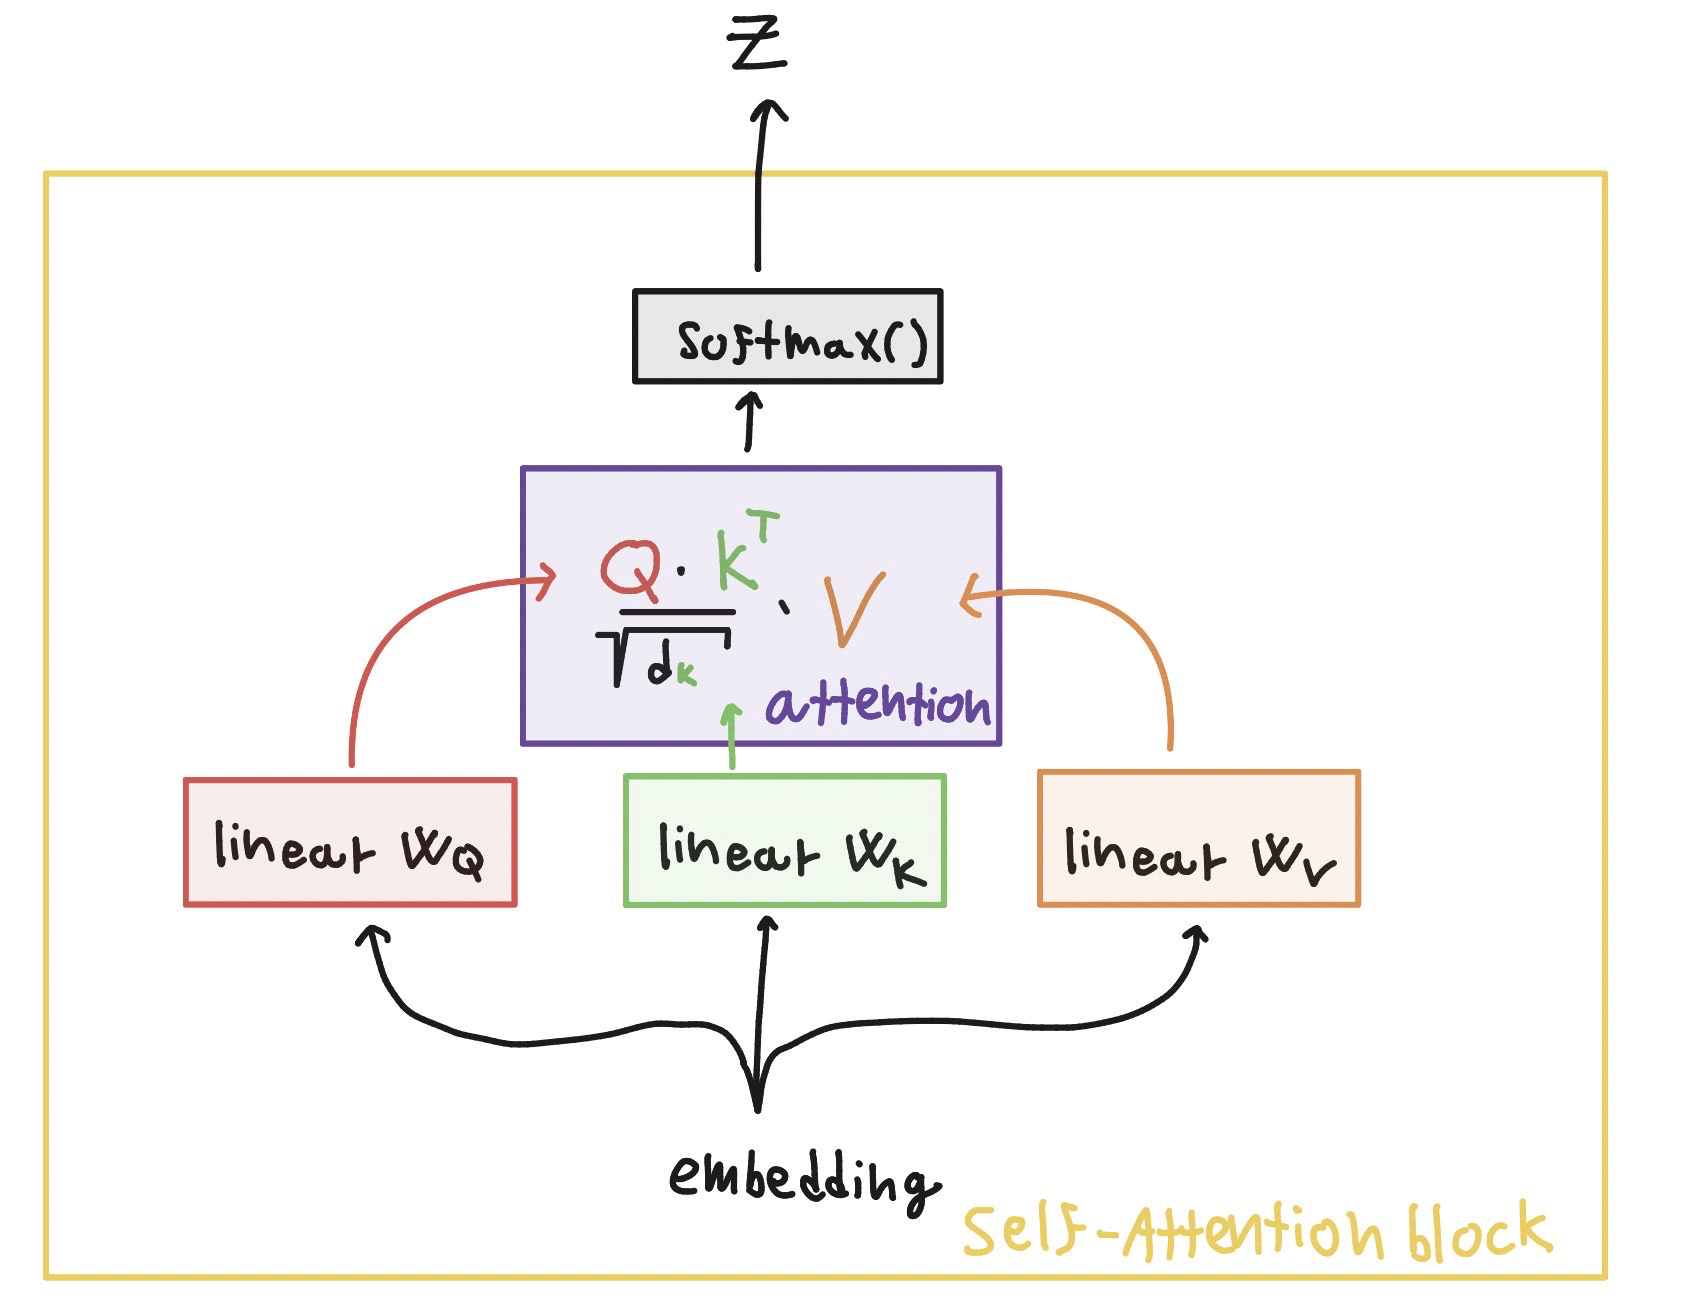
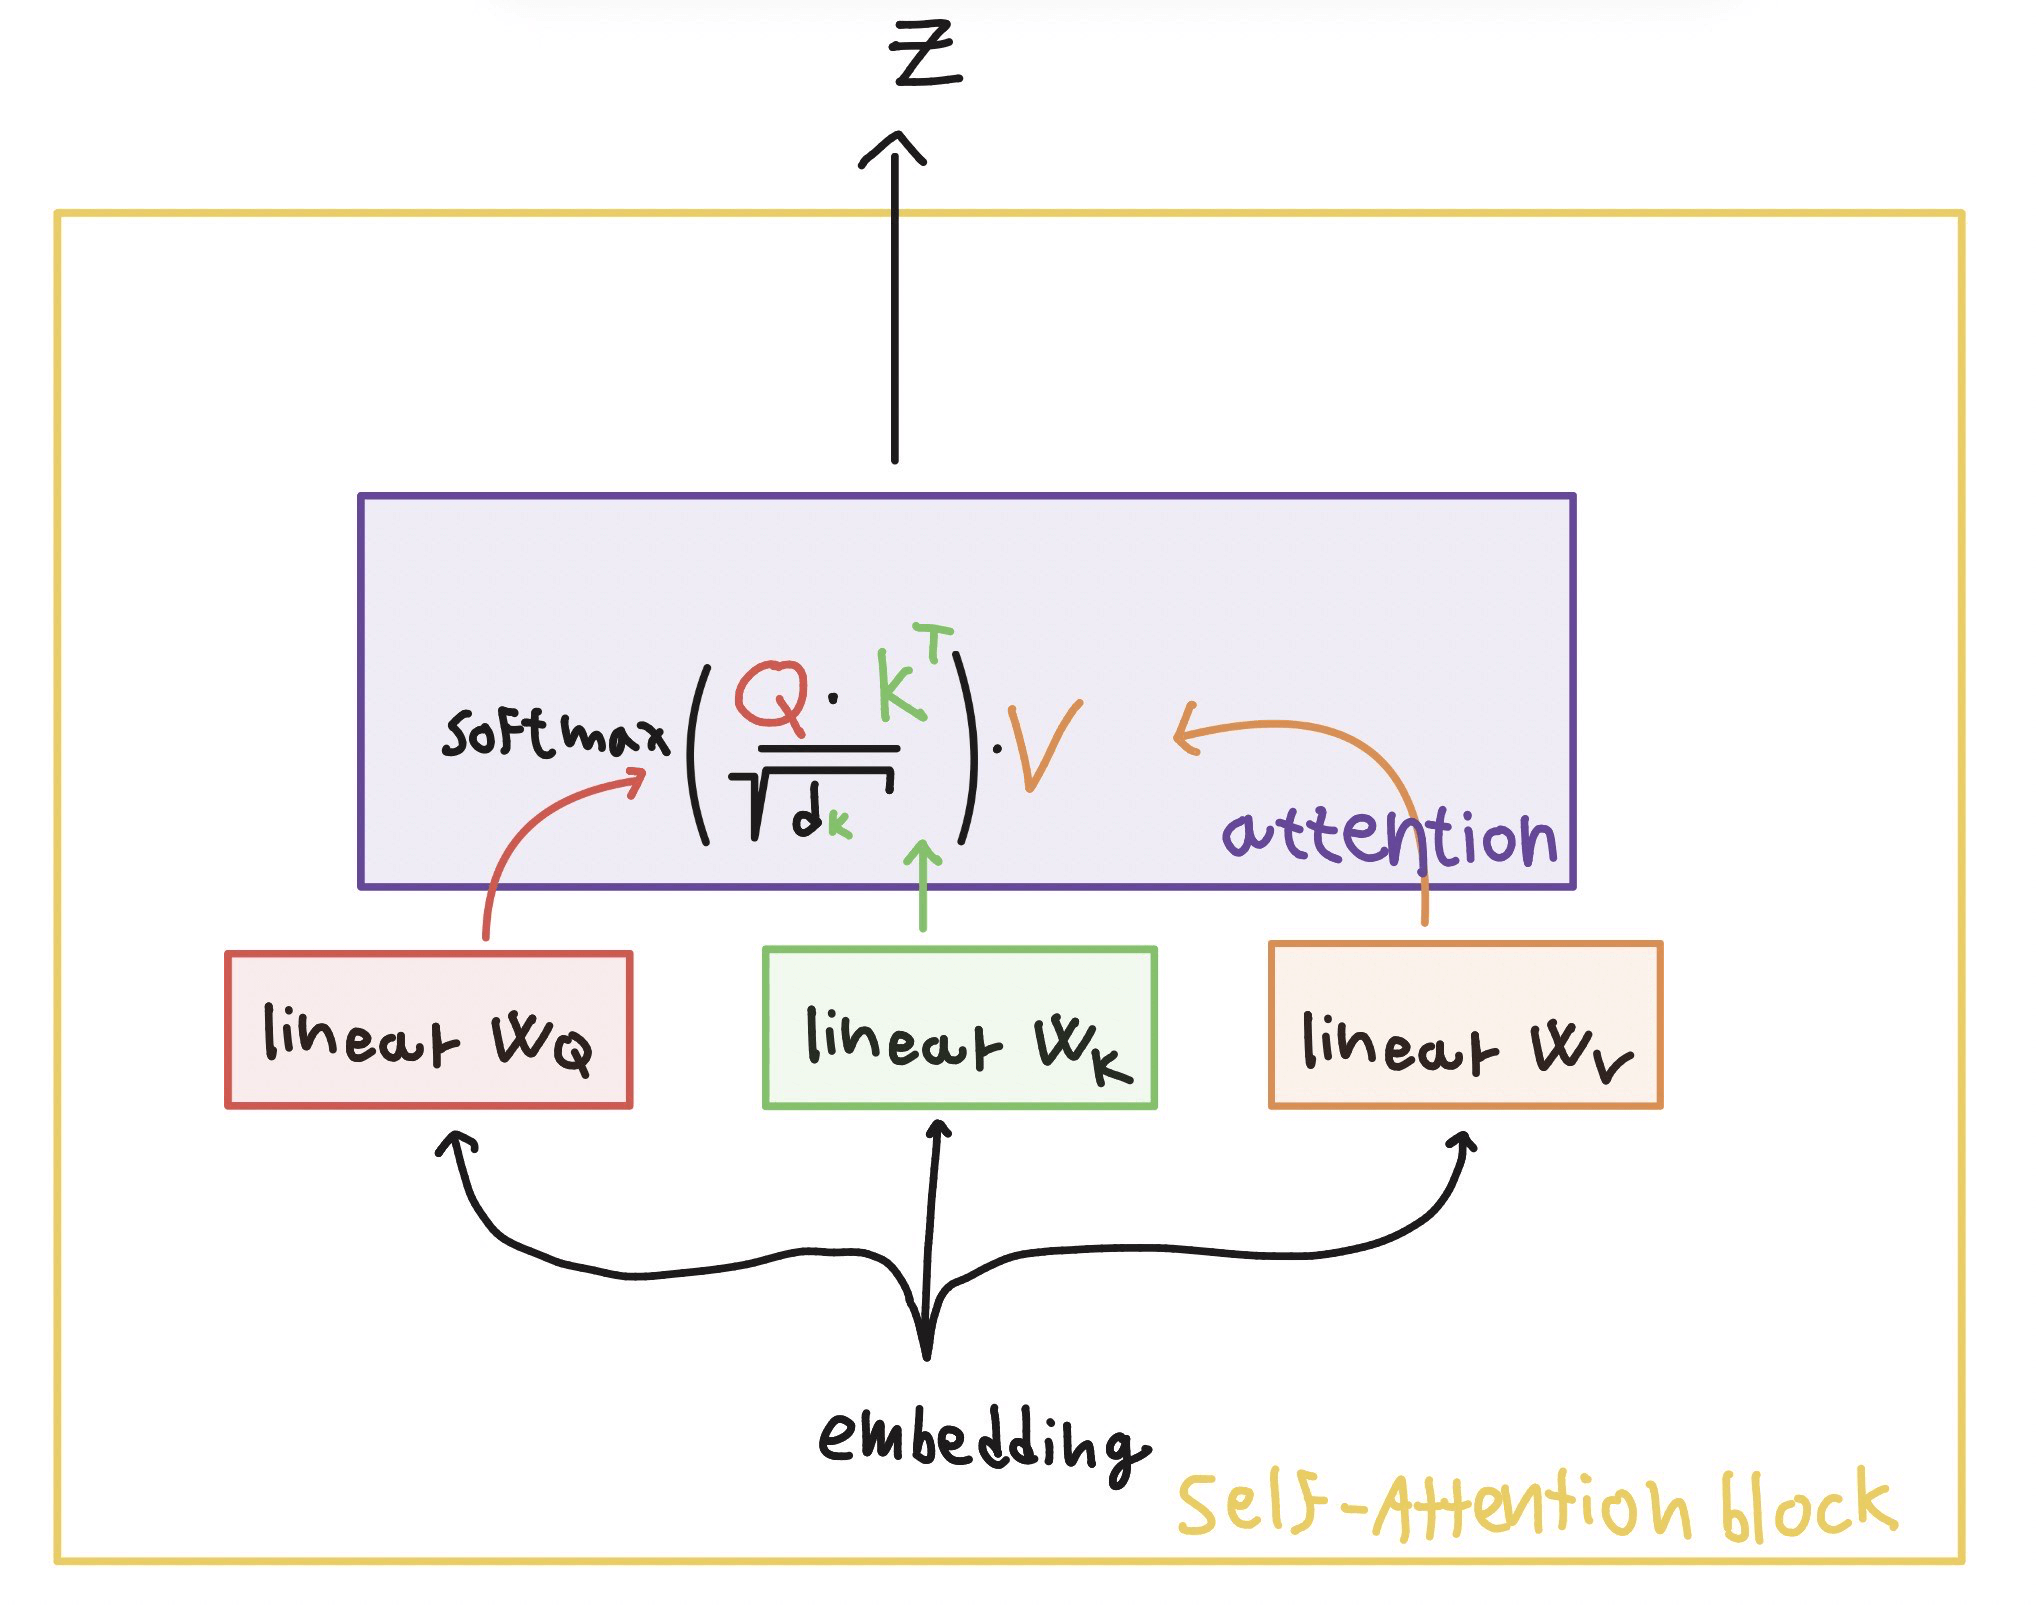
added masking

Changed region(s): [[0.0, 0.0, 0.9858, 0.9793], [0.4929, 0.7651, 0.6777, 0.7957]]

diff --git a/docs/models/transformers.md b/docs/models/transformers.md
@@ -83,6 +83,45 @@ Another analogy to understand these components is to think of them as a library 
 Now the next natural move is to compare the Query <b>Q</b> with all Keys <b>K</b> to determine how relevant each token is to the current token's context. This is done by calculating the attention score using the following formula:
 $$\text{Attention Score} = {Q \cdot K^T}$$
 
+#### Attention Score Masking
+
+In Natural Language Processing (NLP), especially for **next-word prediction** (Generative AI), we must prevent the model from "cheating" by seeing future tokens in the sequence. If the model could see the word it is supposed to predict, it would simply learn to copy the next token rather than understanding the underlying language patterns.
+
+To prevent this, we modify the attention calculation by adding an **Attention Mask**:
+
+<div align="center">
+$$\text{Masked Attention Score} = Q \cdot K^T + M$$
+</div>
+
+Where $M$ is a mask matrix with the same dimensions as the attention scores. This mask ensures that the representation of a token at position $i$ only depends on tokens at positions $j \le i$.
+
+### The Causal Mask Matrix
+
+To effectively "hide" future tokens, the mask matrix $M$ is filled with either **0** (for allowed positions) or $-\infty$ (for forbidden future positions). When these scores are passed through the **Softmax** function, the $-\infty$ values drop to **0**, effectively nullifying any influence from the future context.
+
+For a sequence of length $n$, the mask $M$ is defined as:
+
+$$
+M_{ij} = \begin{cases} 
+0 & \text{if } i \geq j \\
+-\infty & \text{if } i < j 
+\end{cases}
+$$
+
+In matrix form, this appears as a **lower triangular matrix**:
+
+$$
+M = \begin{bmatrix} 
+0 & -\infty & -\infty & \dots & -\infty \\
+0 & 0 & -\infty & \dots & -\infty \\
+0 & 0 & 0 & \dots & -\infty \\
+\vdots & \vdots & \vdots & \ddots & \vdots \\
+0 & 0 & 0 & \dots & 0 
+\end{bmatrix}
+$$
+
+
+
 Now we can use these attention scores to weigh the Values <b>V</b> and mix them to get the context-aware representation of the current token <b>Z</b>: 
 <div align="center">
   
@@ -105,6 +144,7 @@ For example the word bank is very ambigouous. Without context it is impossible t
 
 This is the essence of the self-attention mechanism: each token can "attend" to all other tokens in the sequence, allowing the model to capture complex dependencies and relationships.
 
+
 ### Multi-Head Attention
 
 <div align="center">
@@ -116,3 +156,4 @@ The benefit of this approach is that instead of trying to learn everything in a 
 
 ### Building the Transformer
 Now that we understand the self-attention mechansim, we can build the full transformer block.
+Most models today use Encoder - Decoder architecture. 
